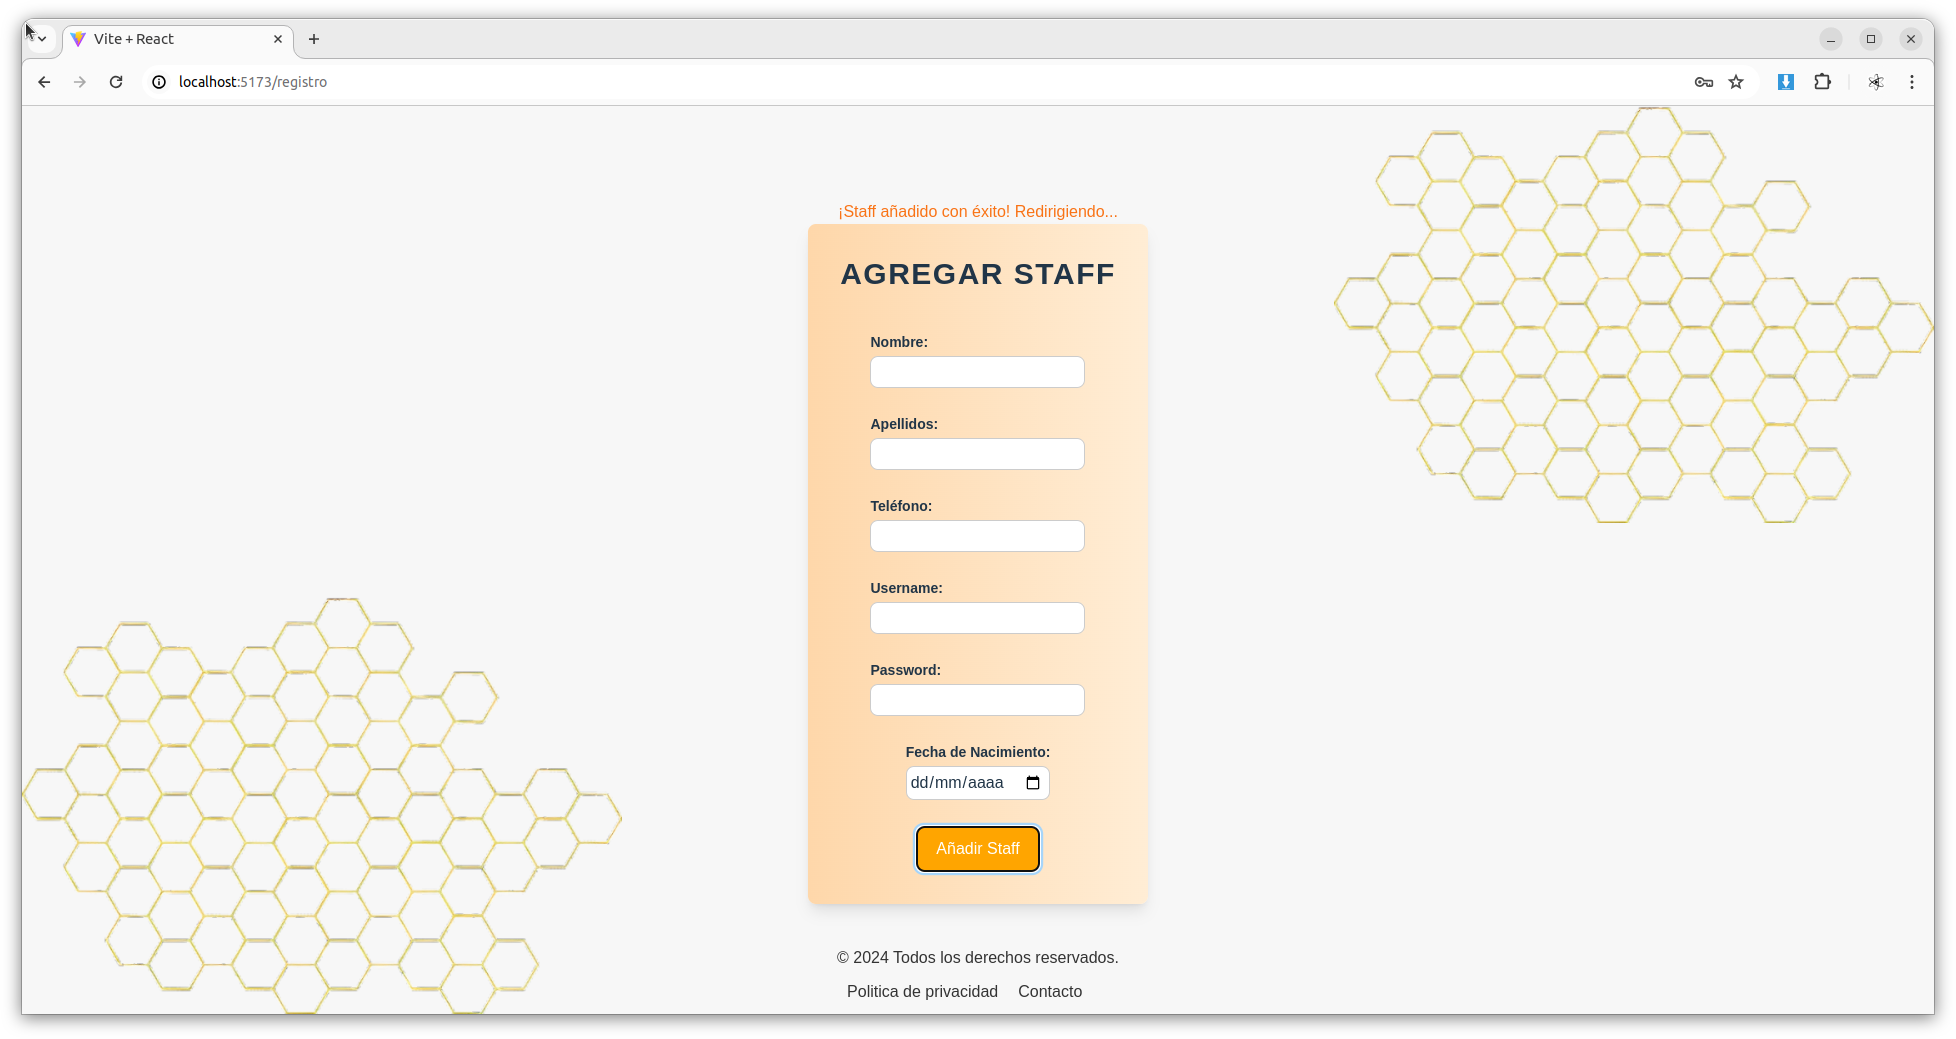
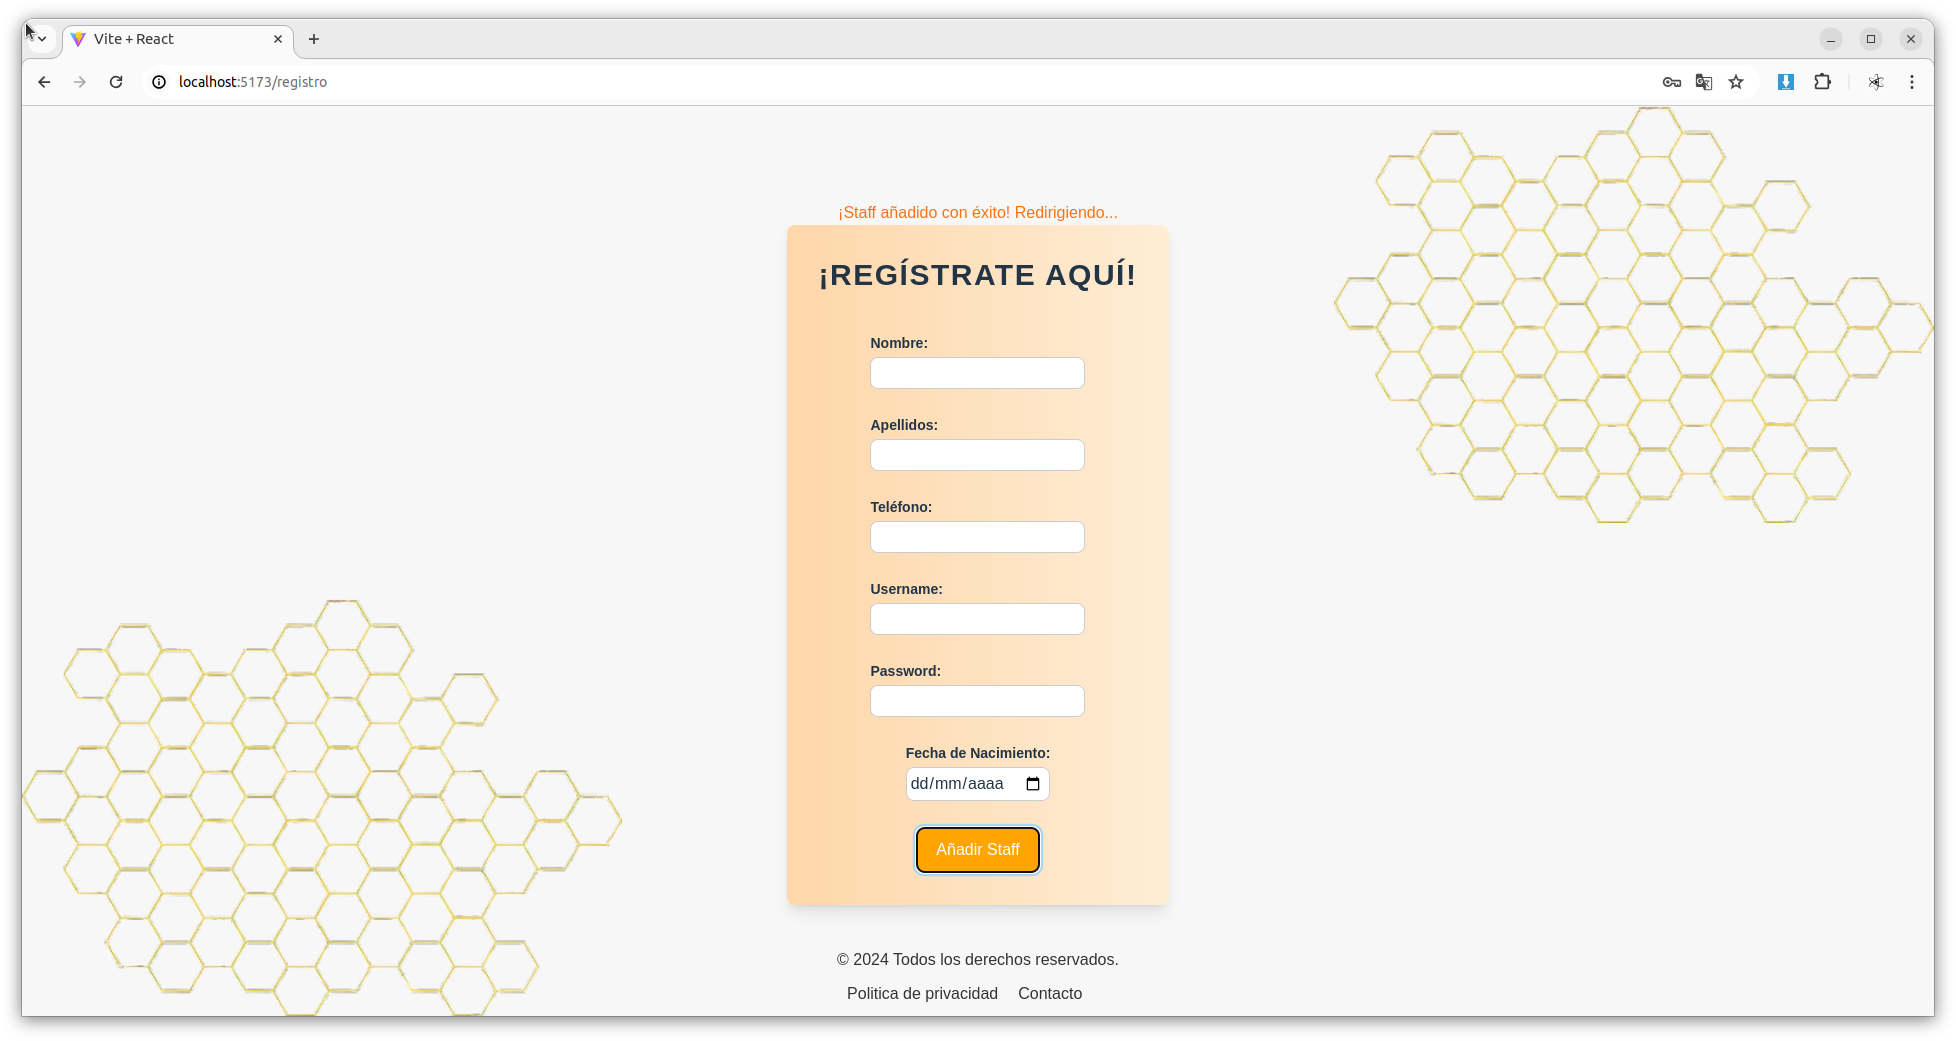
Documentación en screenshots

diff --git a/src/Registro.tsx b/src/Registro.tsx
@@ -115,7 +115,7 @@ const NuevoStaff: React.FC = () => {
           <div className="text-orange-500 text-center mt-2">{mensaje}</div>
         )}
         <div className="nuevo-staff-form space-y-4 bg-gradient-to-r from-orange-200 to-orange-100 p-8 rounded-lg shadow-lg mb-6">
-          <h2 className="text-3xl font-semibold mb-6">Agregar Staff</h2>
+          <h2 className="text-3xl font-semibold mb-6">¡Regístrate aquí!</h2>
           <div className="flex flex-col">
             <label className="text-sm font-semibold mb-1">Nombre:</label>
             <input type="text" name="nombre" value={nuevoStaff.nombre} onChange={cambio} className="input-group" />

diff --git a/README.md b/README.md
@@ -1,13 +1,5 @@
 # STAFKO - MARIA SALVADOR CARDOSO
 
-This template provides a minimal setup to get React working in Vite with HMR and some ESLint rules.
-
-Currently, two official plugins are available:
-
-- [@vitejs/plugin-react](https://github.com/vitejs/vite-plugin-react/blob/main/packages/plugin-react/README.md) uses [Babel](https://babeljs.io/) for Fast Refresh
-- [@vitejs/plugin-react-swc](https://github.com/vitejs/vite-plugin-react-swc) uses [SWC](https://swc.rs/) for Fast Refresh
-
-
 
 # Screenshots
 
@@ -16,27 +8,41 @@ Currently, two official plugins are available:
 <img src="screenshots/loginError.png">
 
 <img src="screenshots/registro.png">
+
+## Validación de formulario de registro
 <img src="screenshots/validacionRegistro.png">
 <img src="screenshots/validacionFechaRegistro.png">
+
+## Redirigimos al inicio de sesión en 3 segundos si el registro ha sido correcto
 <img src="screenshots/exitoRegistro.png">
 
 <img src="screenshots/loginCorrecto.png">
+
+## Guardamos los datos de inicio de sesión en Cookie
 <img src="screenshots/cookies.png">
+
 
 
 # Proyectos
 <img src="screenshots/proyectos.png">
-<img src="screenshots/validacionRegistro.png">
 
-
+## Añadimos proyecto con validación de formulario
 <img src="screenshots/añadirProyecto.png">
+
+## Ningún campo puede quedar vacío y la fecha no puede ser anterior a la actual
+## Deberemos elegir el staff al que le vamos a asignar el proyecto seleccionándolo en el desplegable
 <img src="screenshots/validacionAñadirProyecto.png">
 <img src="screenshots/validacionFechaAñadirProyecto.png">
 <img src="screenshots/exitoAñadirProyecto.png">
 <img src="screenshots/exitoAñadirProyecto2.png">
+
+## Visualización de los datos de los proyectos
 <img src="screenshots/proyectosVerMas.png">
 
+## Aplicamos filtro para visualizar mis proyectos (proyectos para los que me han asignado como staff)
 <img src="screenshots/misProyectos.png">
+
+## Solo el usuario logueado podrá editar y eliminar sus proyectos
 <img src="screenshots/editarProyecto.png">
 <img src="screenshots/editarProyecto2.png">
 <img src="screenshots/exitoEditarProyecto.png">
@@ -44,6 +50,7 @@ Currently, two official plugins are available:
 
 
 # Staffs
+## El usuario logueado aparecerá el primero y de color naranja
 <img src="screenshots/staffs.png">
 
 <img src="screenshots/añadirStaff.png">
@@ -51,16 +58,34 @@ Currently, two official plugins are available:
 <img src="screenshots/validacionFechaAñadirStaff.png">
 <img src="screenshots/exitoAñadirStaff.png">
 <img src="screenshots/exitoAñadirStaff2.png">
+
+## Podremos ver los datos del resto de los usuarios
 <img src="screenshots/staffsVerMas.png">
 
+## Solo el usuario logueado podrá editar su usuario y eliminar su cuenta
 <img src="screenshots/editarMisDatos.png">
 <img src="screenshots/exitoEditarMisDatos.png">
 <img src="screenshots/exitoEditarMisDatos2.png">
 
+## Antes de eliminar la cuenta deberá confirmar la petición
 <img src="screenshots/eliminaCuentaConfirmacion.png">
 <img src="screenshots/eliminaCuentaCancelacion.png">
 <img src="screenshots/exitoEliminaCuenta.png">
+
+## Al eliminar la cuenta se eliminará también la cookie y los datos de registro en la bd
 <img src="screenshots/eliminaCuentaCookie.png">
 
+
+# Politica de privacidad
+<img src="screenshots/politicaPrivacidad.png">
+
+
+# Contacto y envío de correo
+<img src="screenshots/contacto.png">
+<img src="screenshots/exitoContacto.png">
+<img src="screenshots/exitoContactoEmail.png">
+
+
 # Cerrar Sesión
+## Se destruye la cookie
 <img src="screenshots/cerrarSesionCookie.png">
